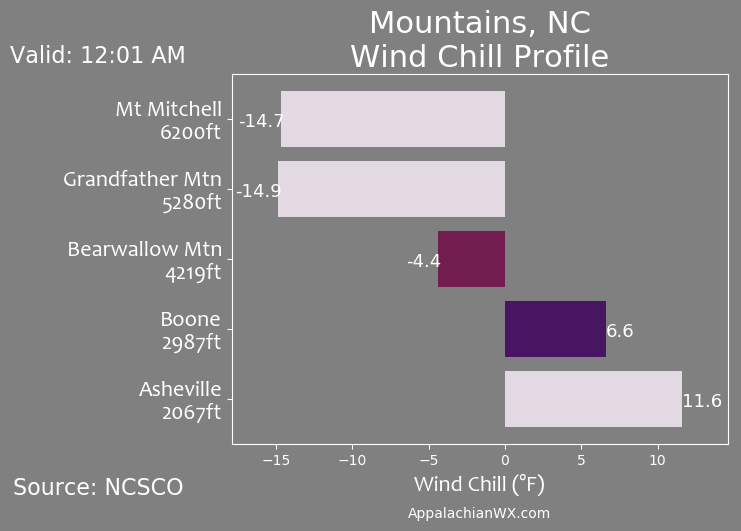
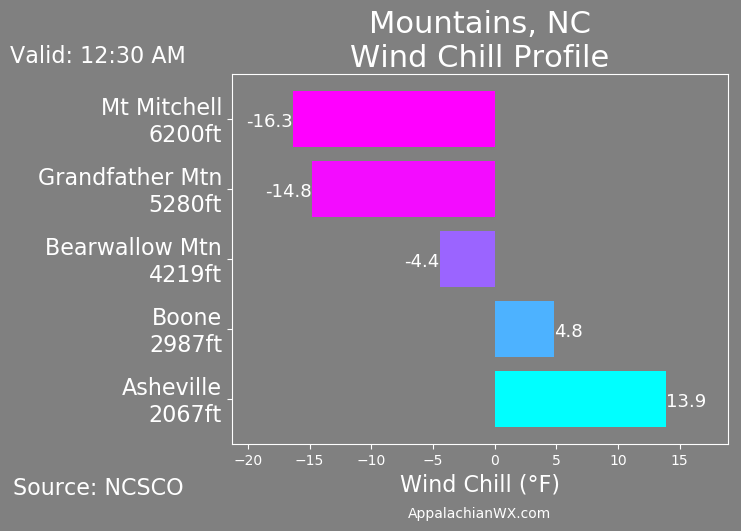
final neg fix

diff --git a/temp_plot.py b/temp_plot.py
@@ -327,8 +327,8 @@ def wncbar():
 
     #max/mins & fonts
     if len(height) > 0:
-        maximum = max(height)+3
-        minimum = min(height)-3
+        maximum = max(height)+5
+        minimum = min(height)-5
         font = {'size':16,'color':'white'}
         font2 = {'size':22,'color':'white'}
 
@@ -672,14 +672,21 @@ def windchill():
     y_pos = np.arange(len(bars))
 
     #Max/mins & fonts
-    maximum = max(height)+3
-    minimum = min(height)-3
-    font = {'fontname':'Candara','size':16,'color':'white'}
+    maximum = max(height)+5
+    minimum = min(height)-5
+    font = {'size':16,'color':'white'}
 
     #Color
-    color_1 = np.array(height)
-    #print(color_1 / float(max(color_1)))
-    color_2 = cm.twilight(1-(abs(color_1) /float(max(color_1))))#50
+    mute_height = []
+    k = 0
+    if min(height) < 0:
+        for i in height:
+            new_val = height[k] + abs(min(height))
+            mute_height.append(new_val)
+            k = k + 1
+    print(mute_height)
+    color_1 = np.array(mute_height)
+    color_2 = cm.cool(1-(color_1 /float(max(color_1))))#50
     ax.xaxis.label.set_color('white')
     ax.spines['bottom'].set_color('white')
     ax.spines['top'].set_color('white') 
@@ -708,9 +715,9 @@ def windchill():
         if temp_height >= 0:
             plt.text(v , i-0.1, str(v), color='white', fontsize='13')
         elif temp_height < 0 and len_finder < 5:
-            plt.text(v-2.1 , i-0.1, str(v), color='white', fontsize='13')
+            plt.text(v-2.9 , i-0.1, str(v), color='white', fontsize='13')
         elif temp_height < 0 and len_finder >= 5:
-            plt.text(v-2.8 , i-0.1, str(v), color='white', fontsize='13')
+            plt.text(v-3.8 , i-0.1, str(v), color='white', fontsize='13')
 
     now = datetime.now()
     current_time = now.strftime("%I:%M %p")
